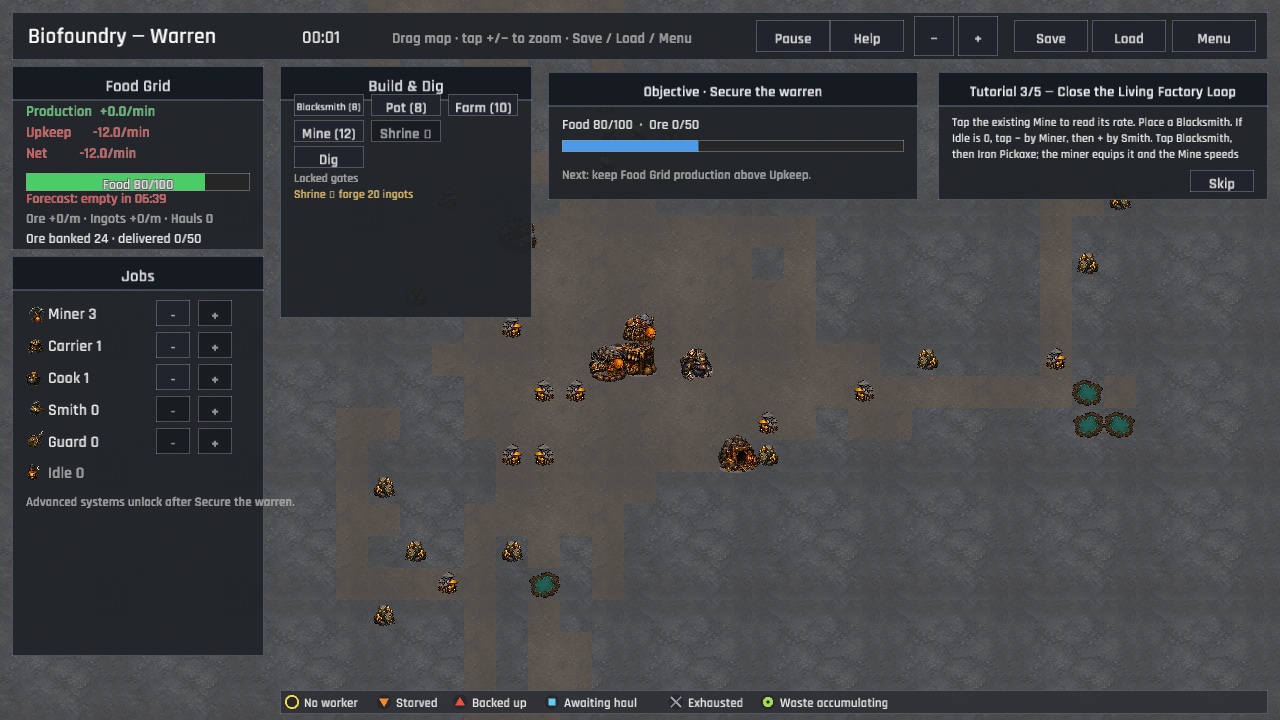
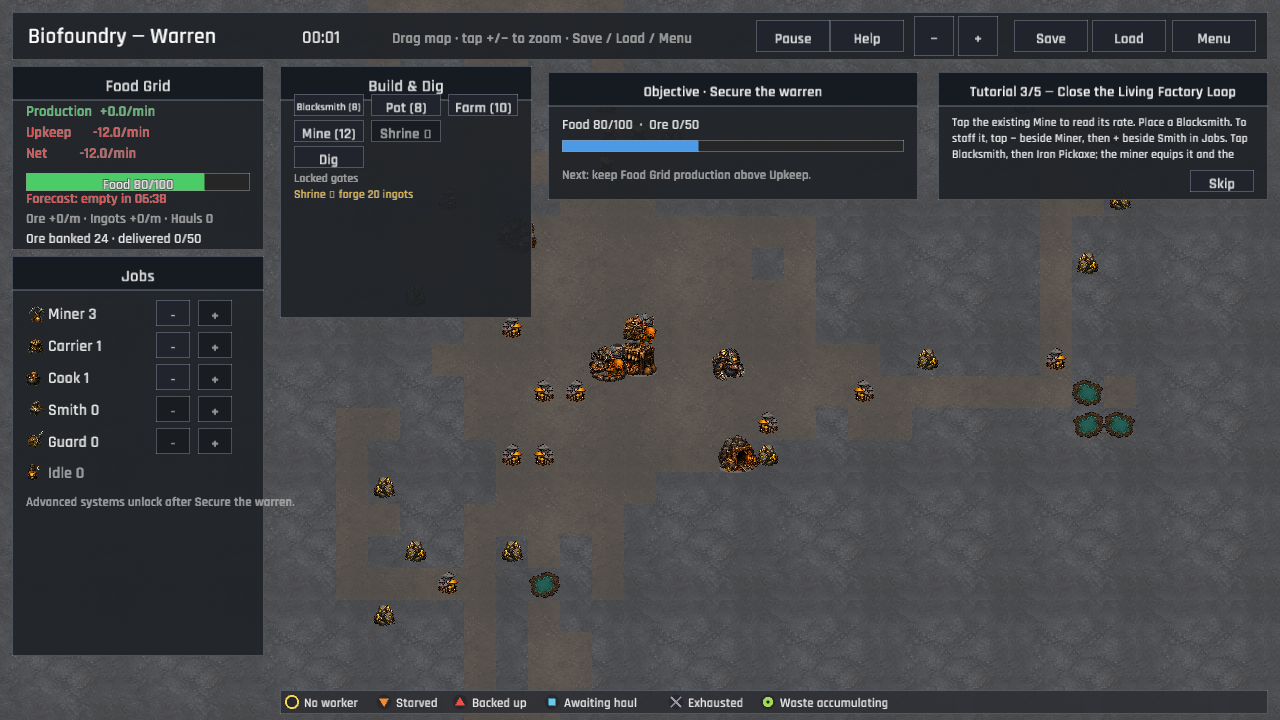
The opening lessons follow the hands on the floor (P1 tutorial guidance)
Food and Factory tutorials still carried fixed Idle-based instructions in their embedded data, and their cards could promise Miner-specific moves after the workforce changed. Use the shared assignment resolver for dynamic card copy, make the source data state-neutral, add focused coverage, and refresh both tutorial captures.

Changed region(s): [[0.75, 0.1833, 0.9688, 0.2444], [0.4688, 0.4278, 0.5312, 0.5194], [0.5312, 0.4889, 0.5938, 0.55]]

diff --git a/src/ui/hud/panels.rs b/src/ui/hud/panels.rs
@@ -731,12 +731,29 @@ fn tutorial_body(
     session: &GameSession,
     data: &GameData,
 ) -> String {
-    if step.id == "secure" {
-        format!(
+    match step.id.as_str() {
+        "food" => format!(
+            "Read Food Grid: keep Production above Upkeep. Tap Farm, then open floor. Wait for Farm construction. If food pressure rises, {}.",
+            super::objective::job_assignment_action_hint(
+                session,
+                data,
+                Job::Carrier,
+                &[Job::Miner, Job::Smith, Job::Guard],
+            )
+        ),
+        "factory" => format!(
+            "Tap the existing Mine to read its rate. Place a Blacksmith. To staff it, {}. Tap Blacksmith, then Iron Pickaxe; the miner equips it and the Mine speeds up.",
+            super::objective::job_assignment_action_hint(
+                session,
+                data,
+                Job::Smith,
+                &[Job::Miner, Job::Carrier, Job::Cook, Job::Guard],
+            )
+        ),
+        "secure" => format!(
             "Deliver 50 ore and hold 100 food in Objective. Before a raid, {}. This secures the warren and ends onboarding; next, forge 20 ingots and raise the Shrine.",
             super::objective::security_handoff_action_hint(session, data)
-        )
-    } else {
-        step.body.clone()
+        ),
+        _ => step.body.clone(),
     }
 }

diff --git a/src/ui/hud/panels/tests.rs b/src/ui/hud/panels/tests.rs
@@ -55,6 +55,32 @@ fn secure_tutorial_names_the_available_guard_action() {
 }
 
 #[test]
+fn food_tutorial_names_the_available_carrier_action() {
+    let data = GameData::load().expect("embedded game data");
+    let mut session = GameSession::new(&data, 7);
+    session.tutorial_step = 1;
+    let step = crate::tutorial::current_step(&session, &data).expect("food tutorial step");
+
+    let body = tutorial_body(step, &session, &data);
+
+    assert!(body.contains("tap − beside Miner, then + beside Carrier in Jobs"));
+    assert!(!body.contains("If Idle is 0"));
+}
+
+#[test]
+fn factory_tutorial_names_the_available_smith_action() {
+    let data = GameData::load().expect("embedded game data");
+    let mut session = GameSession::new(&data, 7);
+    session.tutorial_step = 2;
+    let step = crate::tutorial::current_step(&session, &data).expect("factory tutorial step");
+
+    let body = tutorial_body(step, &session, &data);
+
+    assert!(body.contains("tap − beside Miner, then + beside Smith in Jobs"));
+    assert!(!body.contains("If Idle is 0"));
+}
+
+#[test]
 fn secure_tutorial_keeps_specialist_recovery_honest() {
     let data = GameData::load().expect("embedded game data");
     let mut session = GameSession::new(&data, 7);

diff --git a/src/tutorial/tests.rs b/src/tutorial/tests.rs
@@ -124,7 +124,8 @@ fn factory_lesson_points_to_the_prebuilt_mine() {
 
     assert!(factory.body.contains("existing Mine"));
     assert!(factory.body.contains("Blacksmith"));
-    assert!(factory.body.contains("− by Miner, then + by Smith"));
+    assert!(factory.body.contains("visible Jobs controls"));
+    assert!(!factory.body.contains("If Idle is 0"));
     assert!(factory.body.contains("Iron Pickaxe"));
 }
 

diff --git a/src/ui/hud/objective.rs b/src/ui/hud/objective.rs
@@ -175,7 +175,7 @@ pub(super) fn security_handoff_action_hint(session: &GameSession, data: &GameDat
     )
 }
 
-fn job_assignment_action_hint(
+pub(super) fn job_assignment_action_hint(
     session: &GameSession,
     data: &GameData,
     target: Job,
